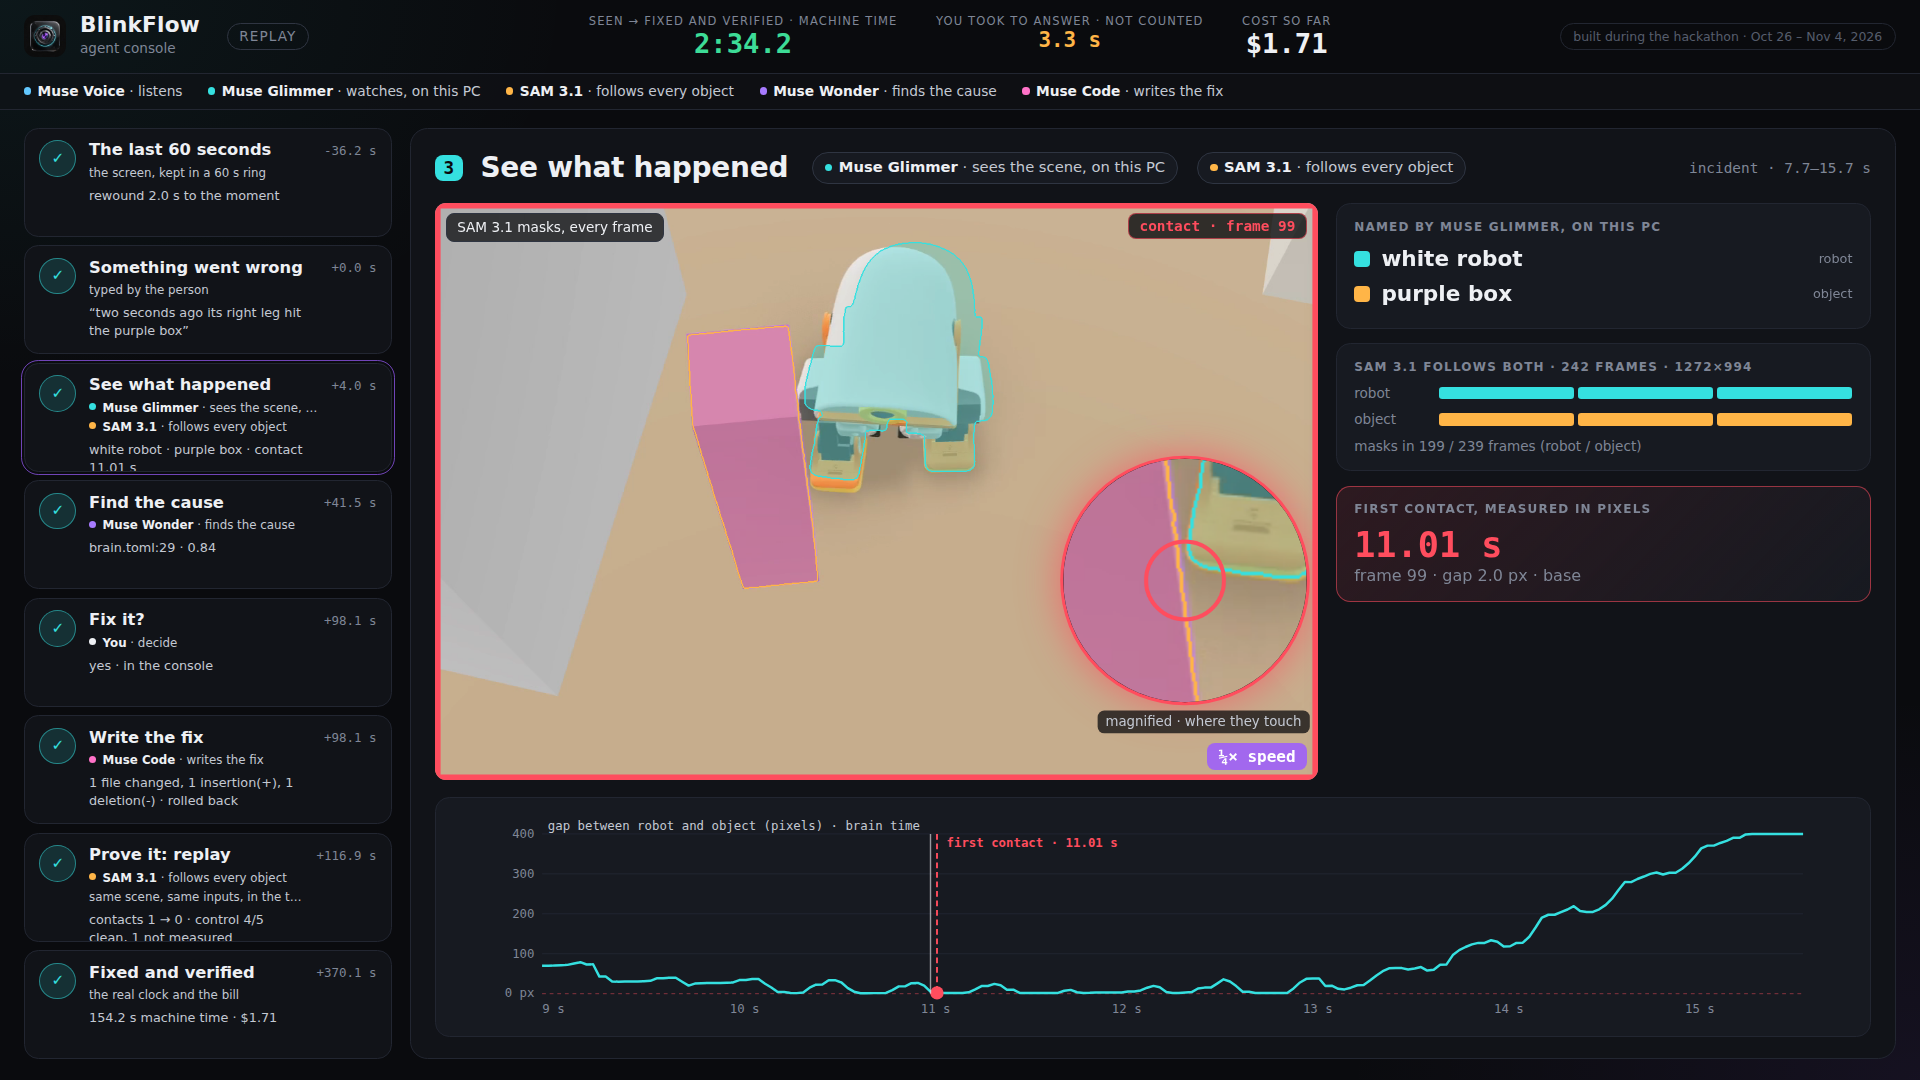
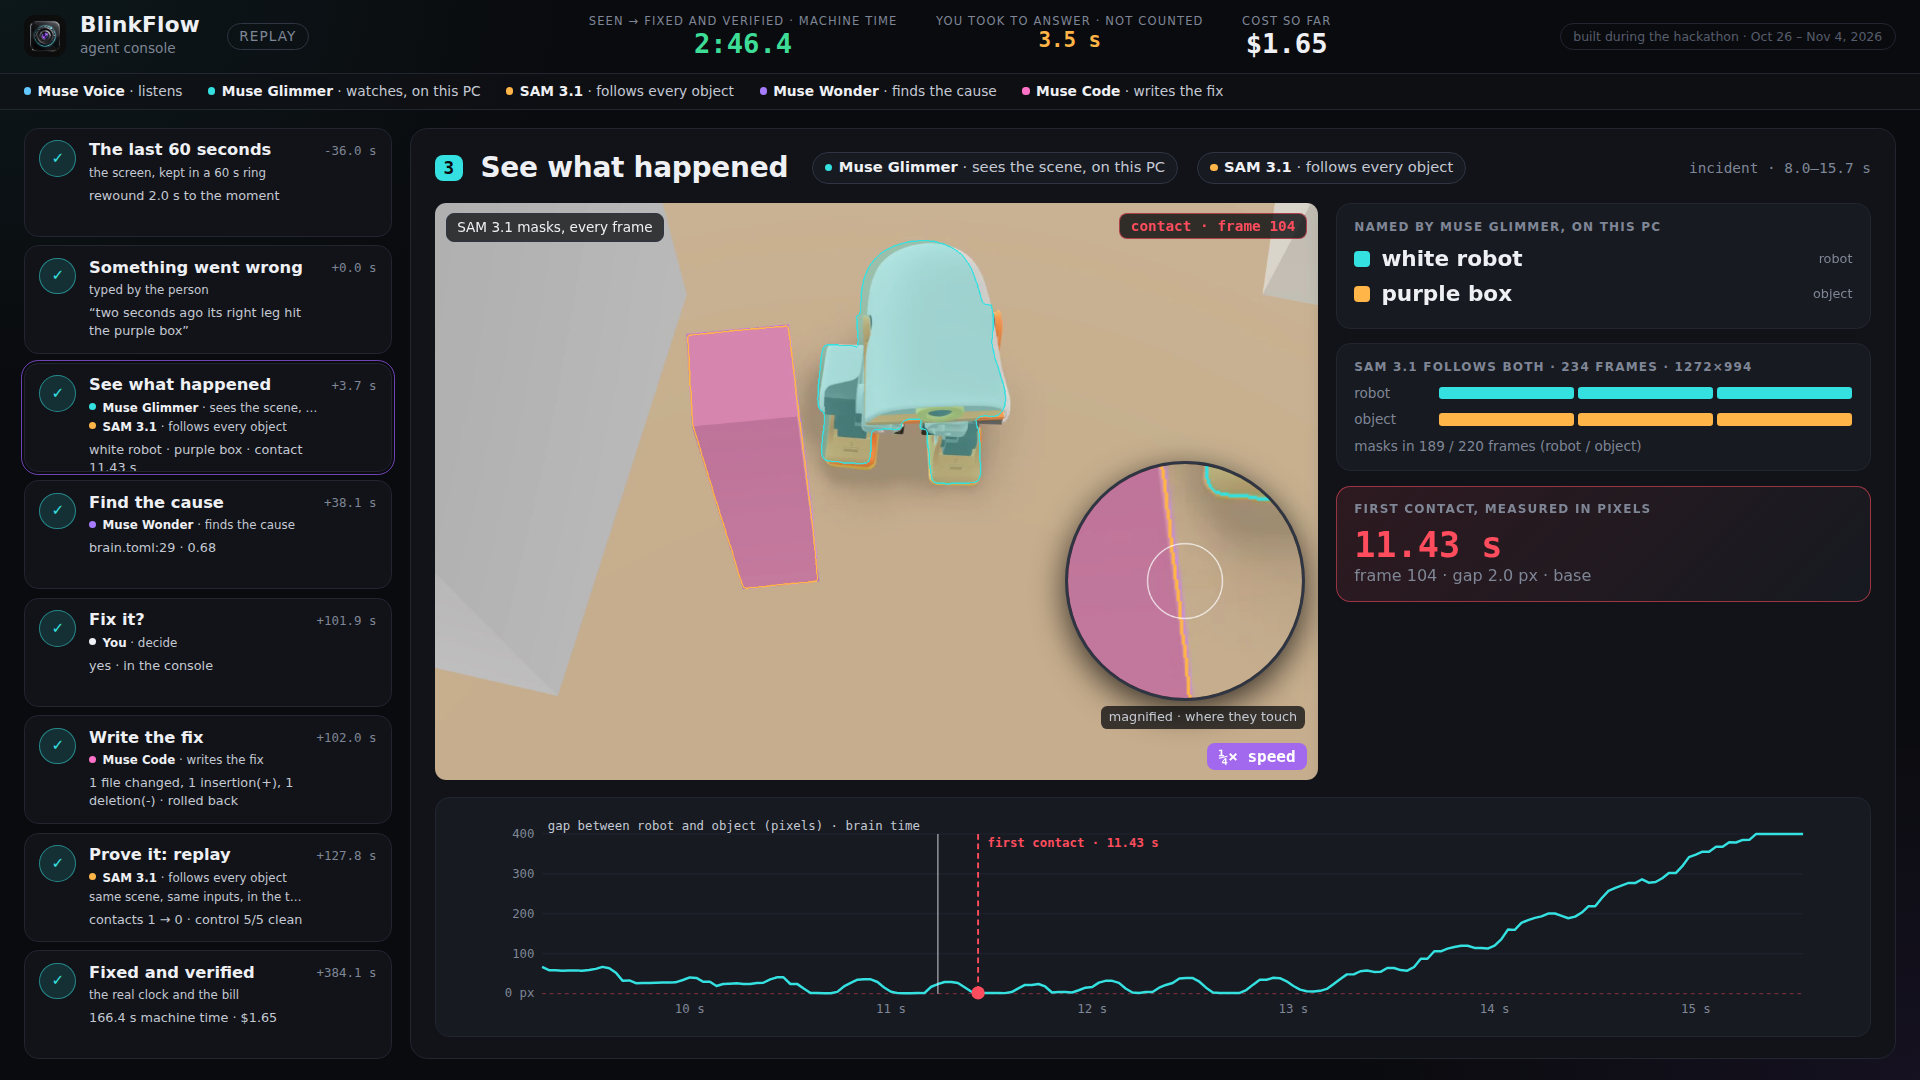
Fresh run: 166.4 s machine time, 1 -> 0, control 5/5 measured clean; screenshots, README, DEVLOG

diff --git a/DEVLOG.md b/DEVLOG.md
@@ -20,3 +20,4 @@ All times UK.
 - 17:28 Voice and approval. Hold F9 (the sidecar records the microphone only while it is down, with 0.5 s kept in memory otherwise) and say what you saw. The moment = the key press on BlinkFlow's clock minus the time said. Muse Voice Transcribe (`PUSH_TO_TALK`) writes the sentence down (1.8-2.5 s); Muse Glimmer reads the delay, the event and the object from it locally (0.8-1.1 s, schema; Spark as fallback); the buffer from 5 s before that moment to 3 s after goes to `see`, whose namer gets the sentence as a hint, and SAM 3.1 confirms with the watcher's rules before the existing loop starts. Typing is the fallback. The loop now asks "Fix it? [y/n]" after the cause in two plain sentences, and "Keep the fix? [y/n]" after the proof (no = `git reset --hard`); `--auto` for the suites, the profile tool and the watcher. Without a microphone: 5 espeak-ng sentences ("just now", "about five seconds ago"...) through `blinkflow.voice clip` as if from the key, scored against the contact logs in `tools/voice_suite.py`: 5/5 heard, read and seen, the delay read exactly every time, so the moment's error (+-0.4-0.8 s) is just the gap the test put between the number said and the key; SAM's contact -0.33..+0.85 s from the truth. One sentence through the whole loop in a terminal, `y` then `n`: fixed and verified in attempt 1 (136 s), rolled back, target back at its first commit. Found on the way: ffmpeg reads stdin, and the replay renders while "Fix it?" waits, so typed answers were swallowed; when BlinkFlow asks it now keeps the terminal and gives children `/dev/null`. The real-voice test (`python -m blinkflow.voice_test --mic`) is ready, not run. $1.6 in model calls. `results/voice.md`.
 - 18:37 The console. `python3 -m blinkflow.console serve` (localhost:8777) shows the loop live, one step at a time, each with the Meta model behind it: the last 60 s rewinding to the moment, the sentence, Glimmer's names and SAM 3.1's masks on every frame with the distance chart down to first contact, Muse Wonder's cause as it streams with the key frame, the log row and the cited line, "Fix it?", Muse Code's tool calls, the diff and the safety commit, the replay before | after in sync with the 1 -> 0 counter, the control scenes, "Keep the fix?", then the clock, the bill and every model call. It only reads the loop's new event log (`events.jsonl`, appended by `blinkflow/events.py`; without a stream every emit is a no-op), serves only files the log names and never the scorer's; an answer clicked there goes to `answers.jsonl` beside it and the loop takes whichever comes first, console or terminal. `report` writes the same page as static files (opens from file://, with a replay of the run). Real run of the purple-box incident, typed sentence: seen -> fixed and verified in 166.8 s, $1.72 in all (the run's models.json now counts the control too), "Yes" clicked in the console, "n" typed in the terminal, rolled back to b2fe90a. Found on the way: the incident's shot.mp4 started at 1.2 s, and Chrome plays such a file from its first frame, so SAM's masks were drawn 36 frames late; `see.trim` now writes timestamps from zero (same frames, checked pixel for pixel). Not fixed: the control from pixels named a long green wall in the ledge scene "gray block" and called the robot walking past it a touch (the twin's log: no contact). So the control said 4/5 clean when it was 5/5. Screenshots: `results/console/`.
 - 20:30 The console for the film, and a 20 s teaser. One clock: machine time only; the seconds a person takes to answer "Fix it?" / "Keep the fix?" are shown apart ("you took 3.3 s to answer"). A band names the five Meta models and what each does (in watch mode, also: "Nothing leaves this PC until Muse Glimmer sees something go wrong."). Heard: the real input mode, the waveform, coloured words and the bridge "key at 14.45 s − "two seconds ago" = 12.45 s". See: a magnifier and a flash on the first touch. Cause: three plain rows (what the camera saw / what the robot believed / why, file:line), each tied to its frame, log row or code line. Proof: before | after in sync, BEFORE / FIXED tags with the measured numbers, "Same fix, other scenes: N/5 clean"; a control scene without a verdict now reads "not measured", not "dirty". Done: "On this PC: Muse Glimmer, 16.7 GB VRAM, 0 tokens billed" and the cloud bill. `serve --film --speed 4` opens it full screen at 1920x1080 on Windows. The ledge false alarm is gone: "down" from an object's two faces may lean at most 60 degrees from vertical, so a tall block's side face is no longer its base; all 92 saved looks measured again (`results/control.md`): caught 60 → 60, false alarms 1 → 0, missed 4 → 4. `tools/side_shot.py`: the first touch from the side at the box's height, 4x slower, the moment from the twin's contact log (scorer side). `tools/teaser.py`: the console filmed headless on a real run, five shots, subtitles read from the run's stream. Fresh real run (typed sentence, answers scripted): seen → fixed and verified in 154.2 s machine time (3.3 s of answering not counted), $1.71, Glimmer at 16.7 GB; contacts 1 → 0; control 4/5 clean, 1 not measured (SAM 3.1 returned no mask for the ledge scene's white block; the twin's log: no contact). Rolled back on "n". SAM spend today $26.7, over the default $5 guard, run with `BLINKFLOW_SAM_BUDGET=28`. Screenshots: `results/console/` (1-watch-live is still the 18:37 live run: a replay has no live view).
+- 21:35 The impact from a new angle, teaser v2, and a control that measures all five scenes. `tools/side_shot.py` now films the first touch low (7 cm) from behind and to the right of the walk, 0.28 m from the point of contact (further out, a table leg comes between), so the gap between the ankle and the box's edge closes in view; the twin's contact log now records the world point of each contact, and a ring grows on it during a 0.5 s pause. Three 4 s variants (30°, 38°, 45°) side by side in a contact sheet. `tools/teaser.py` v2, made for a phone: impact slowed → the sentence → the 60 s bar rewinding → SAM 3.1's masks on an enlarged crop of the player → the cause in three rows → "1 → 0" full screen; 20 s, big burnt-in subtitles, no sound, 1920x1080 and 1080x1080. The console is filmed at 3840x2160 (the page pinned to 1920x1080 and zoomed 2x, since vw/vh ignore zoom) so the crops stay sharp; the speed tag over the masks comes from the player's own state. New real run (typed sentence, answers scripted): seen → fixed and verified in 166.4 s machine time (3.5 s of answering not counted), $1.65, contacts 1 → 0, control 5/5 clean and all 5 measured: this time SAM 3.1 found the ledge's block in 220 frames; the whole masks overlap at 18.1 s but the base gap stays 109 px, and the twin's log has no touch. Rolled back on "n". It took four tries, none of them the rules: Muse Code's host had moved to 1.4.14 under SDK 1.4.13 (schema mismatch; SDK upgraded), SAM 3.1 answered 503 midway and left the fix applied (rolled back by hand; now SAM is asked again after 5/15/40 s, and any crash in the fix loop resets the target to its safety commit), and Muse Wonder once returned 32000 tokens of blank lines (now asked once more). SAM spend today $29.8 (reserved, the failed tries included), run with `BLINKFLOW_SAM_BUDGET=32`. Screenshots in `results/console/` from this run.

diff --git a/README.md b/README.md
@@ -31,8 +31,8 @@ A local page that shows the loop live, one step at a time, with the model behind
 python3 -m blinkflow.console serve                # http://localhost:8777, follows the newest run
 python3 -m blinkflow.console report <run>/events.jsonl   # the same page as static files, for the report
 python3 -m blinkflow.console serve --film --speed 4 --events <run>/events.jsonl   # full screen at 1920x1080 on Windows, replayed at 4x
-python3 tools/teaser.py <run>/events.jsonl        # the 20 s teaser, filmed headless, subtitles from the run
-python3 tools/side_shot.py                        # the first touch from the side, slowed 4x (scorer side: twin truth)
+python3 tools/teaser.py <run>/events.jsonl        # the 20 s phone teaser, 16:9 and 1:1, filmed headless, subtitles from the run
+python3 tools/side_shot.py                        # the first touch, low from behind-right, slowed 4x, held 0.5 s; one clip per angle and a sheet (scorer side: twin truth)
 ```
 
 The clock counts machine time only: the seconds a person takes to answer "Fix it?" are shown apart and not counted.
